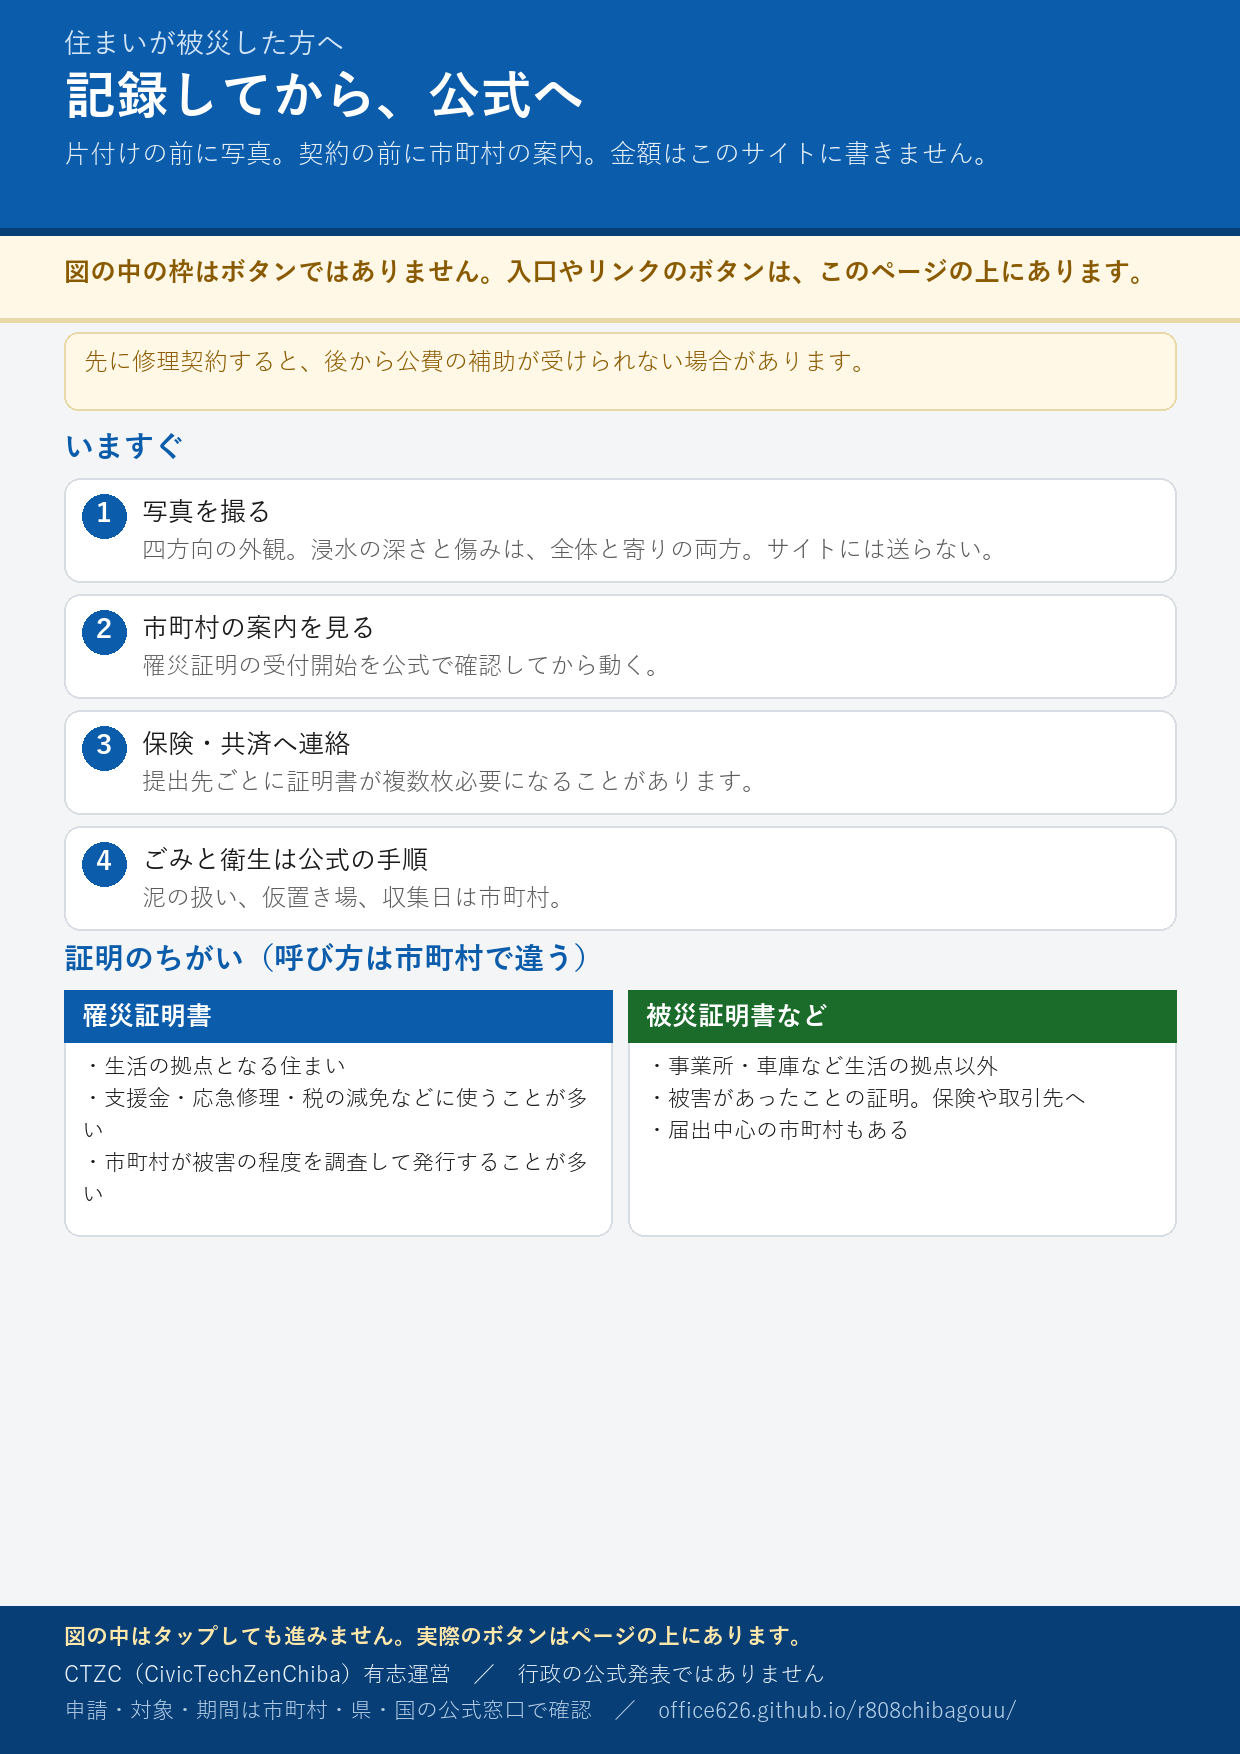
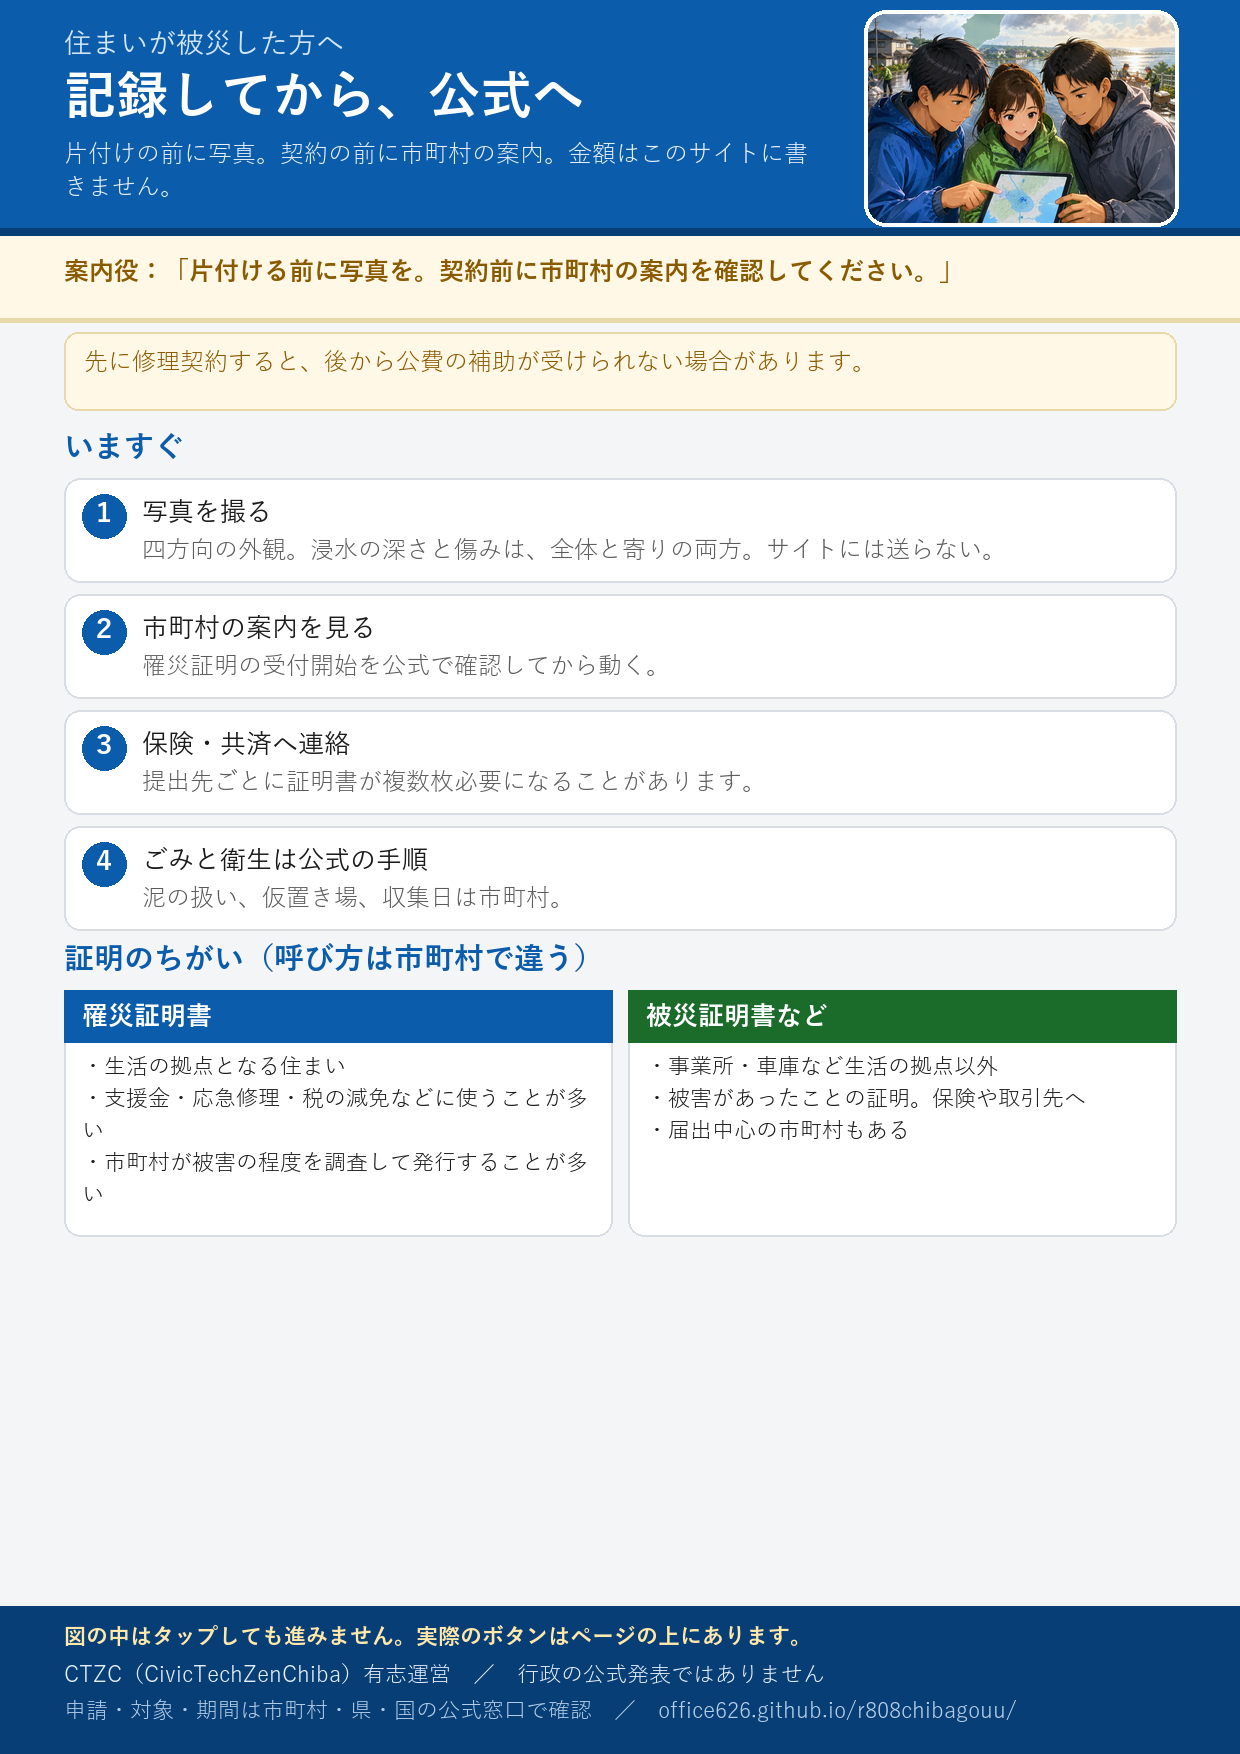
A4要点図にアニメの案内役と語りかける解説を加え、印刷物でも内容へ親しみやすく導く。

diff --git a/scripts/build_infographics.py b/scripts/build_infographics.py
@@ -4,7 +4,7 @@ from __future__ import annotations
 
 from pathlib import Path
 
-from PIL import Image, ImageDraw, ImageFont
+from PIL import Image, ImageDraw, ImageFont, ImageOps
 
 ROOT = Path(__file__).resolve().parents[1]
 OUT = ROOT / "site" / "img"
@@ -66,12 +66,23 @@ def text_block(draw, xy, text, fnt, fill, max_w, leading=None):
 
 
 class Sheet:
-    def __init__(self, kicker: str, title: str, subtitle: str):
+    def __init__(
+        self,
+        kicker: str,
+        title: str,
+        subtitle: str,
+        guide_image: str,
+        guide_message: str,
+        guide_center: tuple[float, float] = (0.5, 0.5),
+    ):
         self.im = Image.new("RGB", (W, H), PAGE)
         self.d = ImageDraw.Draw(self.im)
         self.kicker = kicker
         self.title = title
         self.subtitle = subtitle
+        self.guide_image = OUT / guide_image
+        self.guide_message = guide_message
+        self.guide_center = guide_center
         self._header()
         self.y = 332
         self._footer()
@@ -83,18 +94,25 @@ class Sheet:
     def _header(self):
         self.d.rectangle((0, 0, W, 228), fill=ACCENT)
         self.d.rectangle((0, 228, W, 236), fill=ACCENT_DK)
+        guide = Image.open(self.guide_image).convert("RGB")
+        guide = ImageOps.fit(guide, (310, 212), method=Image.Resampling.LANCZOS, centering=self.guide_center)
+        mask = Image.new("L", guide.size, 0)
+        ImageDraw.Draw(mask).rounded_rectangle((0, 0, 309, 211), radius=20, fill=255)
+        self.im.paste(guide, (866, 12), mask)
+        self.d.rounded_rectangle((864, 10, 1178, 226), radius=22, outline=(255, 255, 255), width=4)
         f_k = self.f("m", 28)
         f_t = self.f("b", 52)
-        f_s = self.f("r", 26)
+        f_s = self.f("r", 24)
         self.d.text((M, 28), self.kicker, font=f_k, fill=(210, 228, 248))
         self.d.text((M, 68), self.title, font=f_t, fill=(255, 255, 255))
-        text_block(self.d, (M, 140), self.subtitle, f_s, (230, 240, 250), W - M * 2, 36)
+        text_block(self.d, (M, 140), self.subtitle, f_s, (230, 240, 250), 760, 33)
         self.d.rectangle((0, 236, W, 318), fill=WARN_BG)
         self.d.rectangle((0, 318, W, 322), fill=WARN_BD)
-        f_w = self.f("b", 26)
+        self.d.polygon(((1000, 236), (1050, 236), (1025, 250)), fill=WARN_BG)
+        f_w = self.f("b", 25)
         self.d.text(
             (M, 258),
-            "図の中の枠はボタンではありません。入口やリンクのボタンは、このページの上にあります。",
+            "案内役：「" + self.guide_message + "」",
             font=f_w,
             fill=PRESS,
         )
@@ -227,6 +245,9 @@ def build_all() -> None:
         "令和8年8月千葉豪雨　復興支援ポータル",
         "このサイトの入り口",
         "千葉県にお住まいの方の状況・支援案内と、支援者が協働する場を分けています。",
+        "anime-guide-map.jpg",
+        "上にある二つの入口から、あなたに合う方を選んでください。",
+        (0.5, 0.55),
     )
     s.note("有志運営です。行政の公式発表ではありません。申請は県・市町村の公式窓口へ。")
     s.h2("二つの入口（ボタンはページの上）")
@@ -250,6 +271,9 @@ def build_all() -> None:
         "千葉県にお住まいの方へ",
         "自分の状況から探す",
         "住まい・移動・事業者の3つの扉と、市町村検索から入れます。",
+        "anime-guide-map.jpg",
+        "住まい・移動・事業者から、いま必要な案内を選びましょう。",
+        (0.5, 0.58),
     )
     s.note("最新の避難・支援の有無は、必ずお住まいの市町村公式で確認してください。")
     s.h2("3つの案内")
@@ -270,6 +294,9 @@ def build_all() -> None:
         "住まいが被災した方へ",
         "記録してから、公式へ",
         "片付けの前に写真。契約の前に市町村の案内。金額はこのサイトに書きません。",
+        "anime-guide-map.jpg",
+        "片付ける前に写真を。契約前に市町村の案内を確認してください。",
+        (0.22, 0.57),
     )
     s.note("先に修理契約すると、後から公費の補助が受けられない場合があります。")
     s.h2("いますぐ")
@@ -294,6 +321,9 @@ def build_all() -> None:
         "移動と生活",
         "運行・ライフラインは公式で",
         "お盆明けの移動、停電・断水、病院や買い物。このページに区間名や店名の一覧は載せません。",
+        "anime-guide-map.jpg",
+        "移動やライフラインは、出発前に最新の公式情報を見ましょう。",
+        (0.5, 0.58),
     )
     s.note("通行できた道でも、その後に規制が出ることがあります。現地の誘導に従ってください。")
     s.h2("確認する場所")
@@ -313,6 +343,9 @@ def build_all() -> None:
         "事業者が被災した方へ",
         "店舗・工場も、まず記録",
         "飲食店、小売、工場、事務所。個人事業も法人も。融資は借り入れです。金額は書きません。",
+        "anime-guide-map.jpg",
+        "建物・設備・在庫を撮影し、契約前に相談窓口を確認しましょう。",
+        (0.78, 0.57),
     )
     s.note("自宅兼店舗は、住まいのページも見てください。住居と店舗で手続が分かれることがあります。")
     s.h2("いまの流れ")
@@ -337,6 +370,9 @@ def build_all() -> None:
         "市町村から探す",
         "54市町村の入口",
         "県防災ポータルの避難・避難所スナップショットと、公式の罹災・支援リンクへつなぎます。",
+        "anime-guide-map.jpg",
+        "お住まいの市町村を選び、公式の支援案内へ進んでください。",
+        (0.5, 0.54),
     )
     s.note("初日対象はレベル5の市町と流山市。他市町村は枠を先に出し、公式リンクから確認します。")
     s.h2("ページの使い方")
@@ -356,6 +392,9 @@ def build_all() -> None:
         "各市町村ページ",
         "このページの見方",
         "いま → 報道 → 支援策 → 行政の記録 → 生活再建。見出しとリンクのみです。",
+        "anime-guide-map.jpg",
+        "まず上の公式ボタンを確認し、必要な支援策へ進んでください。",
+        (0.5, 0.58),
     )
     s.note("報道は全文転載しません。Yahoo!ニュース等は出典へ。数値は速報です。")
     s.h2("上から読む")
@@ -375,6 +414,9 @@ def build_all() -> None:
         "県・国の支援",
         "公式への案内",
         "千葉県と国の発表、事業者向け相談。本文は転載せず、リンク先で確認します。",
+        "anime-guide-map.jpg",
+        "制度の対象や受付期間は、県・国・市町村の公式で確認しましょう。",
+        (0.78, 0.57),
     )
     s.note("災害救助法は応急の住まい・生活が中心です。店舗の復旧は別制度になることが多いです。")
     s.h2("まず開く公式")
@@ -393,6 +435,9 @@ def build_all() -> None:
         "支援・協働する方へ",
         "情報を集め、届ける",
         "CTZC有志の活動。行政・報道の公開情報を集め、県民へ分かりやすく渡すことから着手します。",
+        "anime-guide-team.jpg",
+        "公開情報を整理し、必要な方へ分かりやすく届けていきます。",
+        (0.52, 0.5),
     )
     s.note("救命、現地ボランティアのマッチング、罹災調査そのものは担いません。")
     s.h2("いまやっていること")
@@ -412,6 +457,9 @@ def build_all() -> None:
         "今後の案への投票",
         "何があるとよいか、票で示す",
         "結果は今後の機能や案内の参考です。個人情報は取りません。申請や被害の申告ではありません。",
+        "anime-guide-team.jpg",
+        "必要だと思う案を選んでください。投票は今後の活動の参考にします。",
+        (0.38, 0.5),
     )
     s.note("1つの案につき、このブラウザで1票（取り消し可）。結果は参考値です。")
     s.h2("投票のルール")
